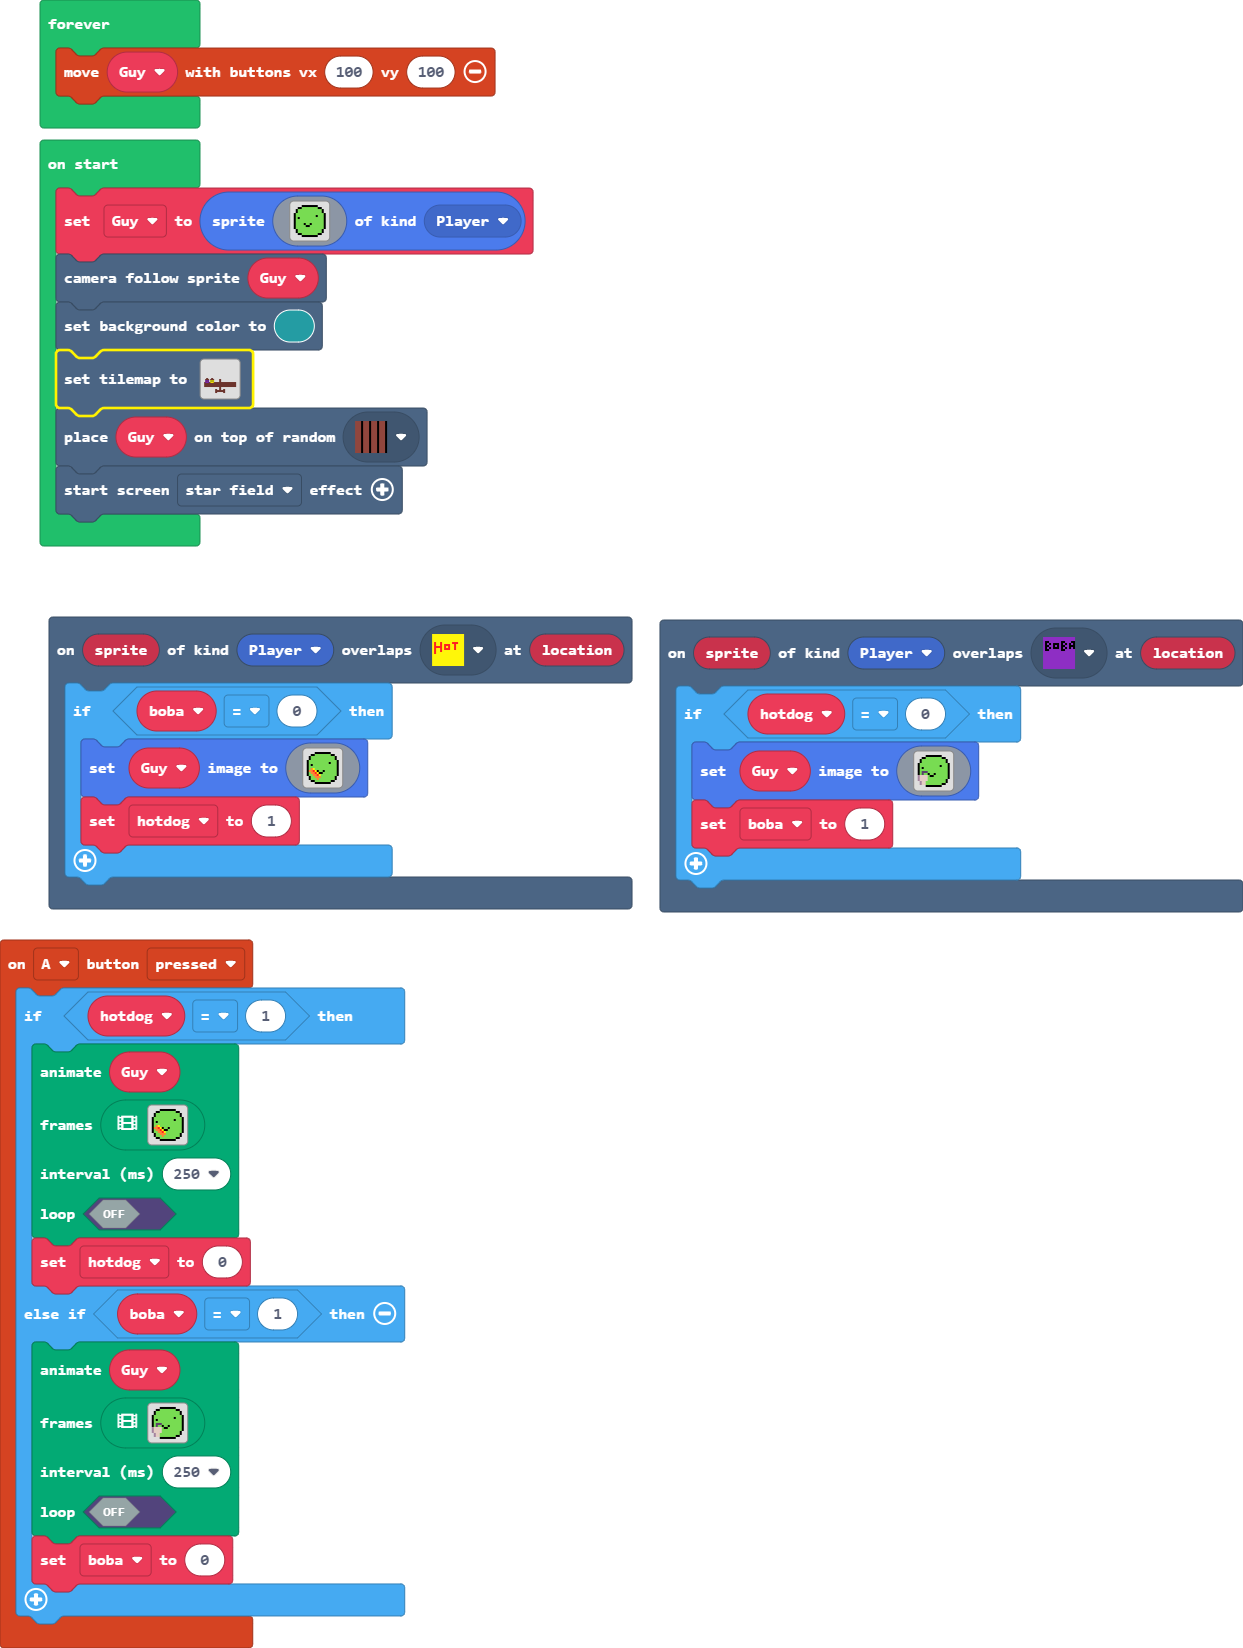
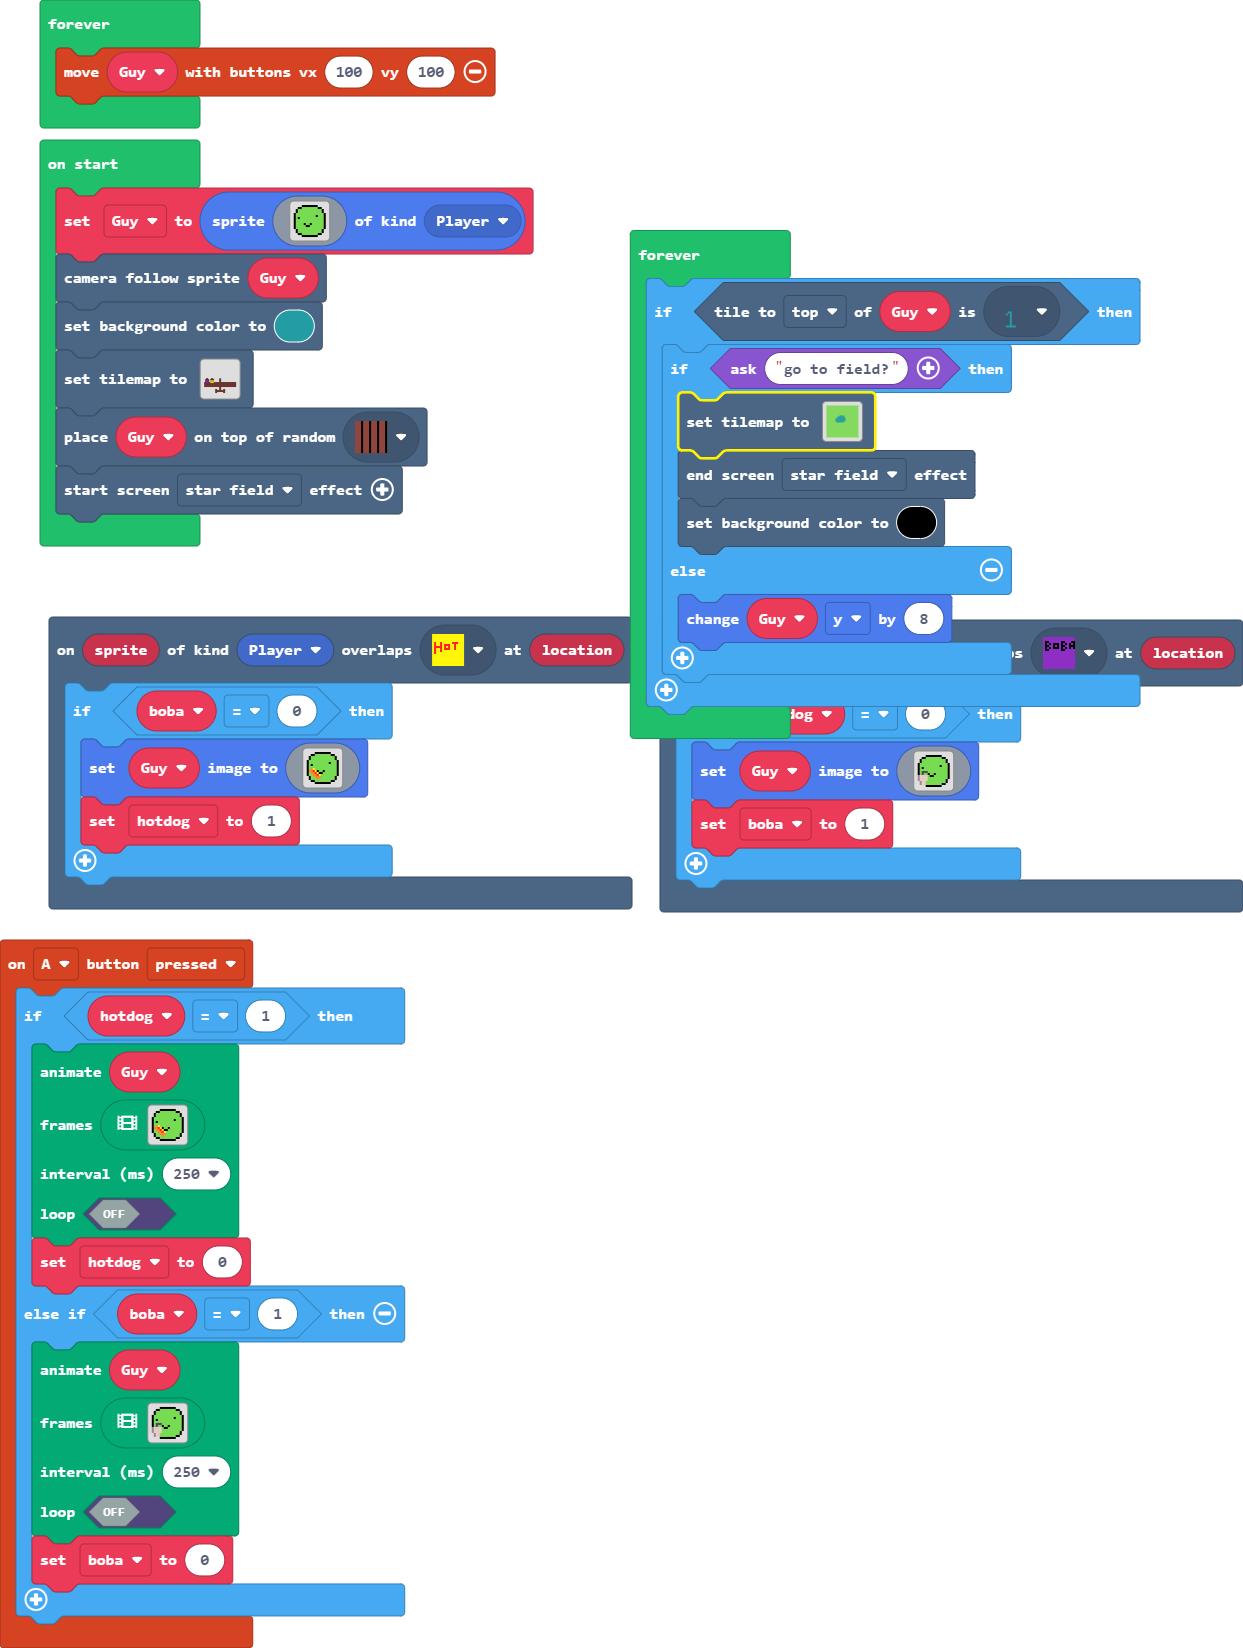
Update pxt.json, main.blocks, main.ts, tilemap.g.jres, tilemap.g.ts

Changed region(s): [[0.4891, 0.1238, 0.9171, 0.4642], [0.1834, 0.2166, 0.214, 0.2476], [0.0306, 0.2166, 0.0611, 0.2476]]

diff --git a/tilemap.g.ts b/tilemap.g.ts
@@ -25,14 +25,20 @@ namespace myTiles {
     //% fixedInstance jres blockIdentity=images._tile
     export const tile12 = image.ofBuffer(hex``);
     //% fixedInstance jres blockIdentity=images._tile
+    export const tile11 = image.ofBuffer(hex``);
+    //% fixedInstance jres blockIdentity=images._tile
     export const tile13 = image.ofBuffer(hex``);
     //% fixedInstance jres blockIdentity=images._tile
-    export const tile11 = image.ofBuffer(hex``);
+    export const tile14 = image.ofBuffer(hex``);
+    //% fixedInstance jres blockIdentity=images._tile
+    export const tile15 = image.ofBuffer(hex``);
+    //% fixedInstance jres blockIdentity=images._tile
+    export const tile16 = image.ofBuffer(hex``);
 
     helpers._registerFactory("tilemap", function(name: string) {
         switch(helpers.stringTrim(name)) {
             case "level1":
[2 lines of base64/hex data omitted]
 ................................
 ................................
 ................................
@@ -65,7 +71,61 @@ namespace myTiles {
 ..........2..222222..2..........
 ...........22......22...........
 ................................
-`, [myTiles.transparency16,myTiles.tile1,myTiles.tile2,myTiles.tile3,myTiles.tile4,myTiles.tile6,myTiles.tile7,myTiles.tile9,myTiles.tile5,myTiles.tile8,myTiles.tile10,myTiles.tile11,myTiles.tile12], TileScale.Sixteen);
+`, [myTiles.transparency16,myTiles.tile1,myTiles.tile2,myTiles.tile3,myTiles.tile4,myTiles.tile6,myTiles.tile7,myTiles.tile9,myTiles.tile5,myTiles.tile8,myTiles.tile10,myTiles.tile11,myTiles.tile12,myTiles.tile13], TileScale.Sixteen);
+            case "level3":
+            case "level3":return tiles.createTilemap(hex`1000100000000000000000000000000000000000000000000000000000000000000000000000000000000000000000000000000000000000000000000000000000000000000000000000000000000000000000000000000000000000000000000000000000000000000000000000000000000000000000000000000000000000000000000000000000000000000000000000000000000000000000000000000000000000000000000000000000000000000000000000000000000000000000000000000000000000000000000000000000000000000000000000000000000000000000000000000000000000000000000000000000000000000000000000000000000000`, img`
+. . . . . . . . . . . . . . . . 
+. . . . . . . . . . . . . . . . 
+. . . . . . . . . . . . . . . . 
+. . . . . . . . . . . . . . . . 
+. . . . . . . . . . . . . . . . 
+. . . . . . . . . . . . . . . . 
+. . . . . . . . . . . . . . . . 
+. . . . . . . . . . . . . . . . 
+. . . . . . . . . . . . . . . . 
+. . . . . . . . . . . . . . . . 
+. . . . . . . . . . . . . . . . 
+. . . . . . . . . . . . . . . . 
+. . . . . . . . . . . . . . . . 
+. . . . . . . . . . . . . . . . 
+. . . . . . . . . . . . . . . . 
+. . . . . . . . . . . . . . . . 
+`, [myTiles.transparency16], TileScale.Sixteen);
+            case "level2":
+            case "level2":return tiles.createTilemap(hex`2000200005050505050505050505050505050505050505050505050505050505050505050505050505050505050505050505050505050505050505050505050505050505050505050505050505050505050505050505050505050505050505050505050505050505050505050505050505050505050505050505050505050505050505050505050505050505050505050505050505050505050505050505050505050505050505050505050505050505050505050505050505050505050505050505050505050505050505050505050505050505050505050505050505050505050505050505050505050505050505050505050505050505050505050505050505050505050505050505050505050505050505050505050505050505050505050505050505050505050505050505050505050505050505050505050505050505050505050505050505050505050505050502020404020505050505050505050505050505050505050505050505050502040202030202050505050505050505050505050505050505050505050505030202040202020202050505050505050505050505050505050505050505050202020202040404040205050505050505050505050505050505050505050505040204030202020204020505050505050505050505050505050505050505050502040202020203020202050505050505050505050505050505050505050505050504040204020202050505050505050505050505050505050505050505050505050505050505050505050505050505050505050505050505050505050505050505050505050505050505050505050505050505050505050505050505050505050505050505050505050505050505050505050505050505050505050505050505050505050505050505050505050505050505050505050505050505050505050505050505050505050505050505050505050505050505050505050505050505050505050505050505050505050505050505050505050505050505050505050505050505050505050505050505050505050505050505050505050505050505050505050505050505050505050505050505050505050505050505050505050505050505050505050505050505050505050505050505050505050505050505050505050505050505050505050505050505050505050505050505050505050505050505050505050505050505050505050505050505050505050505050505050505050505050505050505050505050505050505050505050505050505050505050505050505050505050505050505050505050505050505050505050505050505050505050505050505050505050505050505050505050505050505050505050505050505050505050505050505050505050505050505050505`, img`
+................................
+................................
+................................
+................................
+................................
+................................
+................................
+................................
+................................
+................................
+................................
+................................
+................................
+................................
+................................
+................................
+................................
+................................
+................................
+................................
+................................
+................................
+................................
+................................
+................................
+................................
+................................
+................................
+................................
+................................
+................................
+................................
+`, [myTiles.transparency16,myTiles.tile14,sprites.castle.tileDarkGrass3,sprites.castle.tileDarkGrass2,sprites.castle.tileDarkGrass1,myTiles.tile16], TileScale.Sixteen);
         }
         return null;
     })
@@ -95,10 +155,16 @@ namespace myTiles {
             case "tile5":return tile5;
             case "myTile10":
             case "tile12":return tile12;
-            case "myTile11":
-            case "tile13":return tile13;
             case "myTile9":
             case "tile11":return tile11;
+            case "myTile11":
+            case "tile13":return tile13;
+            case "myTile12":
+            case "tile14":return tile14;
+            case "myTile13":
+            case "tile15":return tile15;
+            case "myTile14":
+            case "tile16":return tile16;
         }
         return null;
     })

diff --git a/main.ts b/main.ts
@@ -316,3 +316,14 @@ effects.starField.startScreenEffect()
 forever(function () {
     controller.moveSprite(Guy, 100, 100)
 })
+forever(function () {
+    if (Guy.tileKindAt(TileDirection.Top, assets.tile`myTile11`)) {
+        if (game.ask("go to field?")) {
+            tiles.setTilemap(tilemap`level2`)
+            effects.starField.endScreenEffect()
+            scene.setBackgroundColor(15)
+        } else {
+            Guy.y += 8
+        }
+    }
+})
